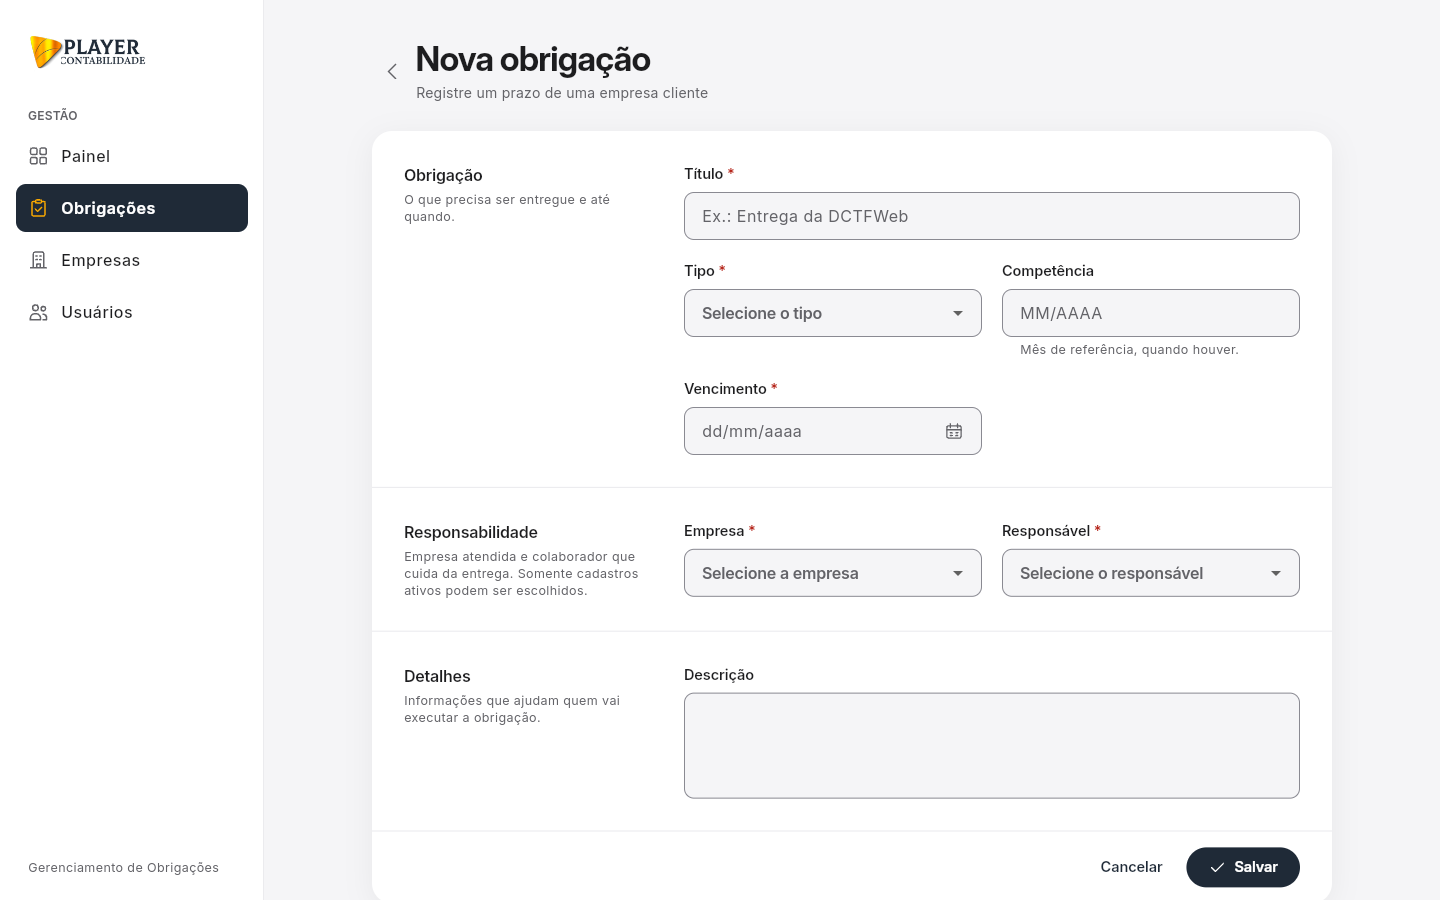
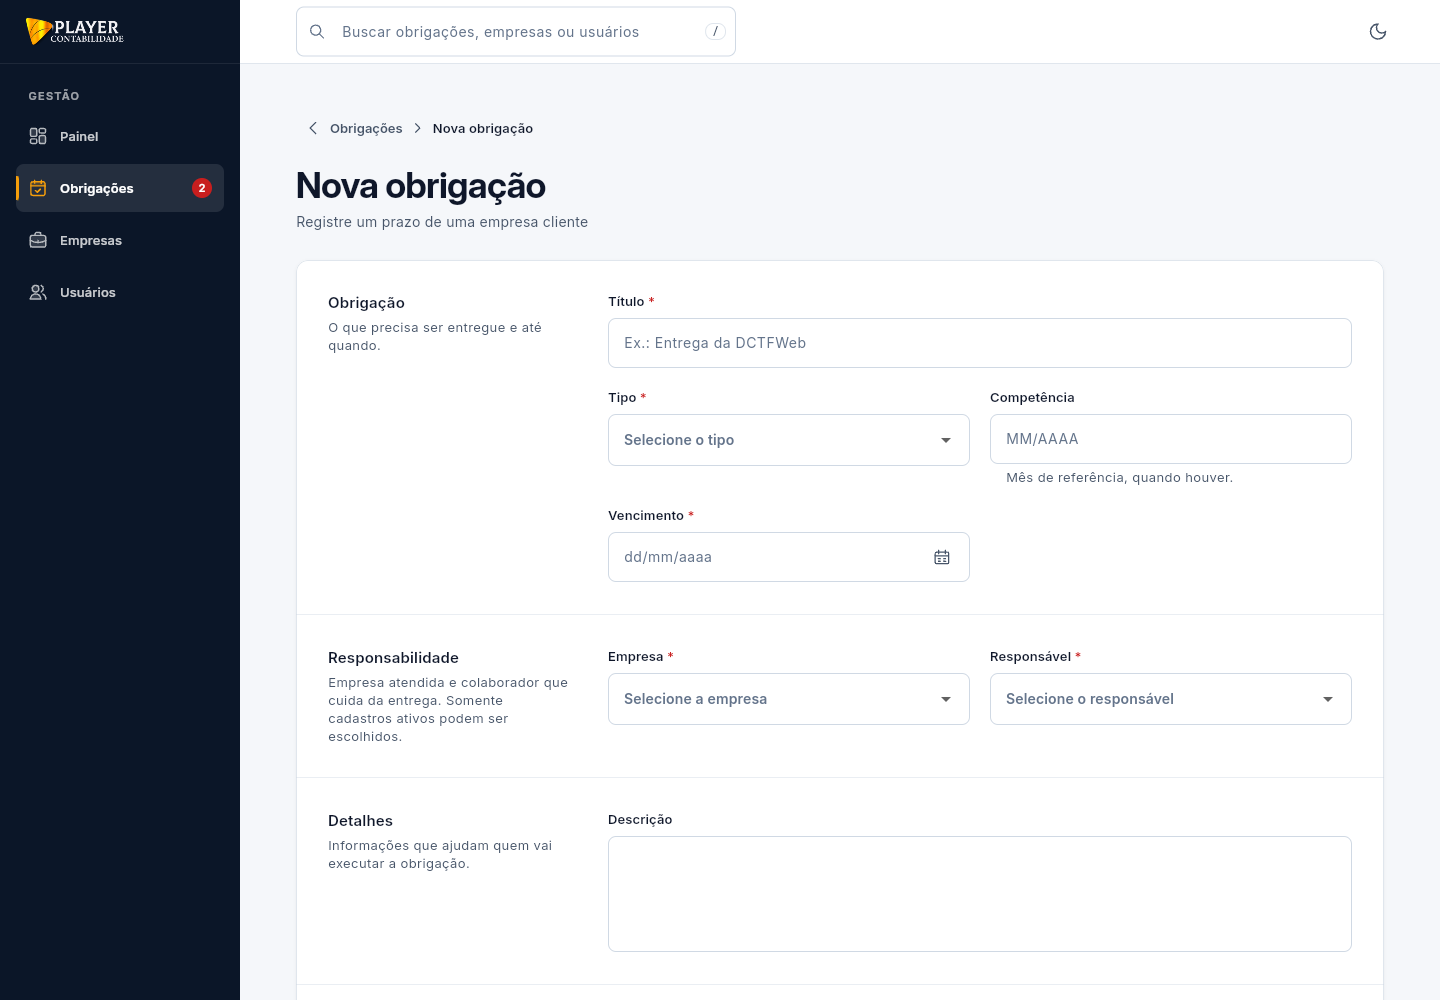
docs: README com a identidade visual e as capturas das novas telas

diff --git a/README.md b/README.md
@@ -1,61 +1,112 @@
-# Obrigações App
+<p align="center">
+  <picture>
+    <source media="(prefers-color-scheme: dark)" srcset="assets/imagens/logo-player-escuro.png">
+    <img src="assets/imagens/logo-player.png" alt="Player Contabilidade" width="225">
+  </picture>
+</p>
 
-Aplicativo Flutter (web e Android) para gerenciamento das obrigações das empresas clientes de um escritório de contabilidade.
+<h1 align="center">Gerenciamento de Obrigações · App</h1>
 
-Consome a API do repositório [obrigacoes-backend](https://github.com/rafaelsdiniz/obrigacoes-backend), onde também está a [documentação completa do sistema](https://github.com/rafaelsdiniz/obrigacoes-backend/tree/main/docs). O andamento do projeto está no [quadro do Trello](https://trello.com/b/lO3pOAnQ/sistema-de-gerenciamento-de-obrigacoes-player).
+<p align="center">
+  Aplicativo Flutter (web e Android) para o escritório acompanhar prazos, responsáveis e documentos das obrigações das empresas clientes.
+</p>
+
+<p align="center">
+  <a href="https://github.com/rafaelsdiniz/obrigacoes-frontend/actions/workflows/ci.yml"><img src="https://github.com/rafaelsdiniz/obrigacoes-frontend/actions/workflows/ci.yml/badge.svg" alt="CI"></a>
+  <img src="https://img.shields.io/badge/Flutter-3.50-02569B?logo=flutter&logoColor=white" alt="Flutter 3.50">
+  <img src="https://img.shields.io/badge/Dart-3.14-0175C2?logo=dart&logoColor=white" alt="Dart 3.14">
+  <img src="https://img.shields.io/badge/cobertura-%E2%89%A5%2080%25-047857" alt="Cobertura mínima de 80%">
+</p>
+
+<p align="center">
+  <a href="https://github.com/rafaelsdiniz/obrigacoes-backend">API (backend)</a> ·
+  <a href="https://github.com/rafaelsdiniz/obrigacoes-backend/tree/main/docs">Documentação do sistema</a> ·
+  <a href="https://trello.com/b/lO3pOAnQ/sistema-de-gerenciamento-de-obrigacoes-player">Quadro no Trello</a>
+</p>
+
+---
 
 ![Painel](docs/telas/painel.png)
 
+## Sumário
+
+- [Telas](#telas)
+- [Funcionalidades](#funcionalidades)
+- [Tecnologias](#tecnologias)
+- [Execução](#execução)
+- [Configuração do ambiente](#configuração-do-ambiente)
+- [Testes e qualidade](#testes-e-qualidade)
+- [Estrutura do projeto](#estrutura-do-projeto)
+- [Design system](#design-system)
+- [Decisões arquiteturais](#decisões-arquiteturais)
+- [Melhorias futuras](#melhorias-futuras)
+
+## Telas
+
 | Obrigações | Detalhe da obrigação |
 |---|---|
-| ![Obrigações](docs/telas/obrigacoes.png) | ![Detalhe](docs/telas/obrigacao-detalhe.png) |
+| ![Obrigações](docs/telas/obrigacoes.png) | ![Detalhe da obrigação](docs/telas/obrigacao-detalhe.png) |
 
-| Nova obrigação | Empresas |
+| Busca global | Nova obrigação |
 |---|---|
-| ![Nova obrigação](docs/telas/obrigacao-nova.png) | ![Empresas](docs/telas/empresas.png) |
+| ![Busca global](docs/telas/busca-global.png) | ![Nova obrigação](docs/telas/obrigacao-nova.png) |
+
+| Empresas | Usuários |
+|---|---|
+| ![Empresas](docs/telas/empresas.png) | ![Usuários](docs/telas/usuarios.png) |
+
+| Tema escuro | Detalhe no tema escuro |
+|---|---|
+| ![Painel no tema escuro](docs/telas/painel-escuro.png) | ![Detalhe no tema escuro](docs/telas/obrigacao-detalhe-escuro.png) |
 
 | Painel no celular | Obrigações no celular | Detalhe no celular |
 |---|---|---|
-| ![](docs/telas/painel-celular.png) | ![](docs/telas/obrigacoes-celular.png) | ![](docs/telas/obrigacao-detalhe-celular.png) |
-
-| Edição de empresa | Usuários |
-|---|---|
-| ![Edição de empresa](docs/telas/empresa-edicao.png) | ![Usuários](docs/telas/usuarios.png) |
-
-| Empresas no celular | Cadastro no celular | Tablet |
-|---|---|---|
-| ![](docs/telas/empresas-celular.png) | ![](docs/telas/empresa-nova-celular.png) | ![](docs/telas/empresas-tablet.png) |
-
-## Tecnologias
-
-- Flutter 3.50 e Dart 3.14, com o pacote `material_ui` e URLs de caminho na web
-- Identidade visual da Player: cores da marca, tipografia Inter (licença OFL, empacotada no app) e layout responsivo de tela inteira
-- Riverpod 3 para estado e injeção de dependências
-- go_router para rotas com URLs reais na web
-- Dio como cliente HTTP, inclusive para envio de arquivos (multipart)
-- file_picker para escolher anexos e url_launcher para baixá-los
-- flutter_test e mocktail para testes
+| ![Painel no celular](docs/telas/painel-celular.png) | ![Obrigações no celular](docs/telas/obrigacoes-celular.png) | ![Detalhe no celular](docs/telas/obrigacao-detalhe-celular.png) |
 
 ## Funcionalidades
 
-- **Painel:** totais de obrigações pendentes, em andamento, atrasadas e concluídas, que abrem a lista já filtrada, e os próximos vencimentos.
-- **Obrigações:** lista com busca e filtros por status e atraso; detalhe com as etapas do fluxo, histórico e anexos; cadastro e edição.
-- **Empresas e usuários:** listas com busca e filtro por situação, cadastro, edição e ativação/inativação.
-- **Anexos:** envio, lista, download e exclusão dos arquivos de cada obrigação.
+| Área | O que o usuário faz |
+|---|---|
+| **Painel** | Vê os totais por status (pendentes, em andamento, atrasadas e concluídas), que abrem a lista já filtrada, as obrigações que exigem atenção e os próximos vencimentos. |
+| **Obrigações** | Busca por título ou descrição; filtra por status (com a contagem em cada aba), somente atrasadas, empresa, responsável, tipo e período de vencimento; ordena por vencimento, cadastro ou título. |
+| **Detalhe** | Acompanha as etapas do fluxo com a data de cada uma, o histórico de mudanças e o registro (criação e atualização). Avança o status com um clique: só a próxima etapa é oferecida, e concluir pede confirmação. |
+| **Anexos** | Arrasta um ou vários arquivos para a área de envio (ou clica para escolher), baixa e exclui. O tipo e o tamanho são conferidos antes do envio. |
+| **Empresas e usuários** | Lista com busca e filtro por situação, cadastro, edição e ativação ou inativação. Inativos continuam consultáveis, mas não aparecem nos seletores de novas obrigações. |
+| **Busca global** | Encontra obrigações, empresas e usuários de qualquer tela. Atalho `/`, navegação por `↑` `↓`, `Enter` abre e `Esc` fecha. No celular, abre em tela cheia. |
+| **Tema claro e escuro** | Segue o sistema operacional até o usuário escolher pelo botão de sol e lua; a escolha fica salva no dispositivo. |
+
+## Tecnologias
+
+| Área | Escolha |
+|---|---|
+| Linguagem e framework | Flutter 3.50 e Dart 3.14, com o pacote `material_ui` e URLs de caminho na web |
+| Estado e injeção de dependências | Riverpod 3 |
+| Rotas | go_router, com URL real na web (link direto, F5 e botão voltar) |
+| HTTP | Dio, encapsulado no `ClienteApi`, inclusive para envio multipart |
+| Arquivos | file_picker para escolher, desktop_drop para arrastar e soltar, url_launcher para baixar |
+| Preferências | shared_preferences, para lembrar o tema escolhido |
+| Tipografia | Inter e Inter Display para textos e títulos, Spline Sans Mono para datas e números (licença OFL, empacotadas no app) |
+| Testes | flutter_test e mocktail |
+| Entrega | Docker (build multi-stage com nginx sem privilégios) e GitHub Actions publicando no GHCR |
 
 ## Execução
 
-### Com Docker (sistema completo)
+### Sistema completo com Docker
 
-O jeito mais simples é subir tudo pelo Compose do [backend](https://github.com/rafaelsdiniz/obrigacoes-backend):
+O jeito mais simples é subir tudo pelo Compose do [backend](https://github.com/rafaelsdiniz/obrigacoes-backend), que inclui o banco, a API e este aplicativo:
 
 ```bash
+git clone https://github.com/rafaelsdiniz/obrigacoes-backend.git
+cd obrigacoes-backend
 docker compose up -d --build
 ```
 
-O aplicativo fica em http://localhost:3000 e a API em http://localhost:8080.
+| Serviço | Endereço |
+|---|---|
+| Aplicativo | http://localhost:3000 |
+| API | http://localhost:8080 |
 
-Para rodar só a imagem deste repositório:
+Para rodar só a imagem deste repositório, com a API já em execução:
 
 ```bash
 docker build -t obrigacoes-app .
@@ -72,98 +123,107 @@ flutter run -d chrome      # web
 flutter run                # Android, com o emulador aberto (a API é acessada por 10.0.2.2)
 ```
 
-A URL da API padrão é `http://localhost:8080`. Para usar outra:
+## Configuração do ambiente
 
-```bash
-flutter run -d chrome --dart-define=API_URL=http://192.168.0.10:8080
-```
+A URL da API vem de um destes lugares, nesta ordem:
 
-### Configuração em tempo de execução
-
-Na web, o aplicativo lê o arquivo `/config.json` da raiz do site antes de iniciar:
-
-```json
-{ "apiUrl": "https://api.exemplo.com.br" }
-```
-
-Se o arquivo não existir, vale o `API_URL` definido no build. Assim, a mesma build serve qualquer ambiente. Fora da web, sem `API_URL`, o padrão é `http://localhost:8080`, ou `http://10.0.2.2:8080` no emulador Android.
-
-No Android, HTTP sem TLS só é permitido para `10.0.2.2` e `localhost` (`android/app/src/main/res/xml/network_security_config.xml`). Em um aparelho físico, use a API por HTTPS ou inclua o endereço da máquina nesse arquivo antes de gerar o app.
+1. **`/config.json` na raiz do site (web).** O contêiner gera esse arquivo na subida a partir da variável `API_URL`, então a mesma imagem serve qualquer ambiente:
+   ```json
+   { "apiUrl": "https://api.exemplo.com.br" }
+   ```
+2. **`--dart-define=API_URL=...` no build ou no `flutter run`.**
+3. **Padrão:** `http://localhost:8080`, ou `http://10.0.2.2:8080` no emulador Android.
 
 | Onde | Variável | Padrão | Descrição |
 |---|---|---|---|
-| Contêiner (nginx) | `API_URL` | `http://localhost:8080` | Endereço da API como o navegador o enxerga; vira o `/config.json` na subida do contêiner |
+| Contêiner (nginx) | `API_URL` | `http://localhost:8080` | Endereço da API como o navegador o enxerga; vira o `/config.json` |
 | Build (`--dart-define`) | `API_URL` | `http://localhost:8080` ou `http://10.0.2.2:8080` no Android | Usado quando não há `/config.json` (desenvolvimento e Android) |
 
-A imagem usa nginx sem privilégios, com fallback para a SPA (as URLs funcionam com F5 e link direto), gzip, cabeçalhos de segurança e health check.
+No Android, HTTP sem TLS só é permitido para `10.0.2.2` e `localhost` (`android/app/src/main/res/xml/network_security_config.xml`). Em um aparelho físico, use a API por HTTPS ou inclua o endereço da máquina nesse arquivo antes de gerar o app.
+
+A imagem usa nginx sem privilégios, com fallback para a SPA, gzip, cabeçalhos de segurança, `Cache-Control: no-cache` (cada deploy chega ao navegador no próximo acesso) e health check.
 
 ## Testes e qualidade
 
 ```bash
-flutter analyze
 dart format --set-exit-if-changed lib test
+flutter analyze
 flutter test --coverage
 ```
 
-- Testes de unidade (formatação, regras de prazo, repositórios com um adaptador HTTP falso) e de tela, que sobem o aplicativo inteiro com os repositórios substituídos por falsos e navegam pelas rotas reais.
-- Testes de layout e acessibilidade: todas as rotas em 4 tamanhos de tela com texto em dobro, contraste WCAG AA, alvos de toque de 48 px e rótulos para leitor de tela.
-- O CI roda formatação, análise, testes com cobertura mínima de 80% e o build web em todo pull request; na `main`, publica a imagem no GHCR.
+| Tipo | O que cobre |
+|---|---|
+| Unidade | Formatação (CNPJ, datas, competência, tamanhos), regras de prazo, filtros e períodos de vencimento, preferência de tema |
+| Repositórios | Parâmetros e corpo enviados à API e leitura das respostas, com um adaptador HTTP falso |
+| Contrato | Os repositórios contra um servidor que responde exatamente como a API documentada |
+| Telas | O aplicativo inteiro sobe com os repositórios substituídos por falsos e navega pelas rotas reais: painel, listas, filtros e ordenação, detalhe e avanço de status, formulários, anexos (seletor e arrastar e soltar), busca global e troca de tema |
+| Layout e acessibilidade | Todas as rotas em 4 tamanhos de tela com texto em dobro e sem estouro; contraste WCAG AA nos temas claro e escuro, alvos de toque de 48 px e rótulos para leitor de tela |
 
-## Estrutura
+O CI roda formatação, análise, testes com cobertura mínima de 80% e o build web em todo pull request; na `main`, publica a imagem no GHCR.
+
+## Estrutura do projeto
 
 ```text
 lib/
-├── main.dart                 carrega a configuração e inicia o app
-├── app/                      MaterialApp, roteador e navegação (barra lateral ou barra inferior)
+├── main.dart                 carrega a configuração e o tema salvo e inicia o app
+├── app/                      MaterialApp, roteador e navegação (barra lateral, barra superior e barra inferior)
 ├── core/
-│   ├── tema/                 cores, raios e tema da identidade visual
-│   ├── layout/               pontos de quebra e margens responsivas
+│   ├── tema/                 paleta clara e escura, tokens de raio, fonte e movimento, preferência de tema
+│   ├── layout/               pontos de quebra, largura da página, altura dos controles e margens
 │   ├── config/               URL da API (/config.json ou --dart-define)
 │   ├── dominio/              Json, situação, filtro e termos dos cadastros
-│   ├── estado/               notifiers reaproveitáveis
-│   ├── arquivos/             escolha de arquivos no dispositivo e download
+│   ├── estado/               filtro reaproveitável dos cadastros e aviso de alteração entre telas
+│   ├── arquivos/             escolha, arrastar e soltar e download de arquivos
 │   ├── formatacao/           CNPJ, datas, competência, tamanhos de arquivo e validações
 │   ├── http/                 cliente da API, erros (Problem Details), página e parâmetros
-│   └── widgets/              componentes da interface: cabeçalho, grupo, linhas, selos, filtros, formulários
+│   └── widgets/              componentes: cabeçalhos, trilha, cartões, filtros, menus, listas e formulários
 └── features/
-    ├── painel/               indicadores e próximos vencimentos
-    ├── obrigacoes/           lista, detalhe com andamento e histórico, formulário, regras de prazo
-    ├── anexos/               envio, lista, download e exclusão dos arquivos de uma obrigação
-    ├── empresas/             data (repositório), domain (modelo) e presentation (telas, estado e rotas)
+    ├── painel/               indicadores e seções do painel
+    ├── obrigacoes/           lista com filtros, detalhe com etapas e histórico, formulário e regra de prazo
+    ├── anexos/               área de envio, lista, download e exclusão
+    ├── busca/                busca global em obrigações, empresas e usuários
+    ├── empresas/
     └── usuarios/
 ```
 
-Cada funcionalidade é dividida em três camadas:
-- `data`: fala com a API;
-- `domain`: modelos imutáveis;
-- `presentation`: telas e estado.
+As funcionalidades que falam com a API (obrigações, anexos, empresas e usuários) são divididas em três camadas. O painel e a busca global só compõem dados dessas funcionalidades, então têm apenas `presentation` (e o modelo do resultado, no caso da busca):
 
-### Anexos
+| Camada | Responsabilidade |
+|---|---|
+| `data` | Repositórios que falam com a API e convertem JSON em modelo |
+| `domain` | Modelos imutáveis e regras de exibição (prazo, filtros, períodos) |
+| `presentation` | Telas, providers e as operações que alteram dados |
 
-Na tela da obrigação, a seção **Anexos** envia um arquivo por vez, lista os enviados e permite baixar ou excluir.
-- O seletor só oferece as extensões aceitas pela API: PDF, PNG, JPEG, XML, CSV, XLSX e DOCX.
-- Arquivos acima de 10 MB são recusados antes do envio, para não carregar na memória algo que a API vai recusar. O valor fica em `Anexo.tamanhoMaximo` e acompanha o padrão do backend (`APP_ANEXOS_TAMANHO_MAXIMO`); a API continua sendo quem decide, conferindo o tipo pelo conteúdo e o tamanho.
-- O download abre o endereço do anexo em uma nova aba. A API responde com `Content-Disposition: attachment` e o nome original, então o navegador salva o arquivo e fecha a aba; se a API responder com erro, ele aparece na aba nova, sem perder o estado do app. No Android, o endereço abre no navegador.
-- Obrigação concluída continua aceitando anexos (por exemplo, o recibo da entrega), mas não permite excluí-los.
+## Design system
 
-Os erros da API chegam às telas como `ErroApi`, com o código estável e os erros por campo, que aparecem no próprio campo do formulário.
+A interface usa um conjunto pequeno de tokens, para que todas as telas tenham o mesmo tamanho, forma e cor:
+
+| Token | Valores | Onde |
+|---|---|---|
+| Paleta (`Paleta`) | Neutros azul-acinzentados, marinho da marca, amarelo da logo como acento e status em uma mesma intensidade (azul, verde, vermelho e amarelo) | `context.cores`, com versão clara e escura |
+| Raios (`Raios`) | 8 para controles, 12 para cartões, pílula para status e contadores | Botões, campos, filtros, cartões, faixas |
+| Altura (`Medidas.alturaDoControle`) | 48 px em todo controle interativo | Busca, abas, filtros, botões |
+| Ícones (`TamanhosDeIcone`) | 14, 18, 20 e 32 | Status, botões, navegação e estados vazios |
+| Largura (`Medidas.larguraMaximaDaPagina`) | 1600 px, com a barra superior alinhada ao conteúdo | Todas as páginas |
+
+As cores de status têm significado fixo e sempre vêm acompanhadas de ícone e texto, nunca só da cor.
 
 ## Decisões arquiteturais
 
-As decisões do sistema estão registradas nos [ADRs do backend](https://github.com/rafaelsdiniz/obrigacoes-backend/tree/main/docs/adr) (a do frontend é a [ADR-0008](https://github.com/rafaelsdiniz/obrigacoes-backend/blob/main/docs/adr/0008-arquitetura-do-frontend.md)). Em resumo:
+As decisões do sistema estão registradas nos [ADRs do backend](https://github.com/rafaelsdiniz/obrigacoes-backend/tree/main/docs/adr); a do frontend é a [ADR-0008](https://github.com/rafaelsdiniz/obrigacoes-backend/blob/main/docs/adr/0008-arquitetura-do-frontend.md). Em resumo:
 
 - **Organização por funcionalidade** (`features/<nome>/{data,domain,presentation}`): cada assunto fica junto, e as telas nunca falam com HTTP diretamente.
 - **Riverpod para estado:** cada fonte de dados é um provider com estados de carregando, erro e dados. As operações que alteram dados ficam em uma classe por funcionalidade (`CadastroDeObrigacoes`, `GestaoDeAnexos`), que invalida o que precisa ser recarregado.
 - **Erros tratados em um único ponto:** o `ClienteApi` converte qualquer falha em `ErroApi`, com o código estável do Problem Details. Erros de validação aparecem no próprio campo; conflito de versão oferece "Recarregar".
-- **O backend é a fonte das regras.** O app só as reflete para dar uma experiência melhor: mostra apenas a próxima ação de status, lista só cadastros ativos nos seletores e usa o campo `atrasada` calculado pela API, no fuso do escritório.
+- **O backend é a fonte das regras.** O app só as reflete para dar uma experiência melhor: oferece apenas a próxima ação de status, lista só cadastros ativos nos seletores e usa o campo `atrasada` calculado pela API, no fuso do escritório. Os filtros, a ordenação e as contagens das abas vêm da própria API.
 - **Configuração em tempo de execução** (`/config.json`): a mesma imagem serve qualquer ambiente.
-- **Uma base para web e Android:** barra lateral e tabelas em telas largas; barra inferior e linhas empilhadas no celular.
-- **Identidade visual da Player:** dourado da marca como acento e grafite como base; cores de status com significado fixo e sempre acompanhadas de ícone e texto.
+- **Uma base para web e Android:** barra lateral e tabelas em telas largas; barra inferior, linhas empilhadas e busca em tela cheia no celular.
+- **Acessibilidade verificada por teste:** contraste nos dois temas, alvos de toque, texto em dobro e rótulos para leitor de tela fazem parte da suíte, não de uma revisão manual.
 
 ## Melhorias futuras
 
 - Login e perfis de acesso, acompanhando a autenticação da API.
 - Busca dentro dos seletores de empresa e responsável (hoje até 100 cadastros ativos por lista).
 - Progresso em porcentagem no envio de anexos e pré-visualização de PDFs e imagens.
-- Filtros por empresa, responsável e período na lista de obrigações (a API já os oferece).
-- Modo escuro e testes de ponta a ponta automatizados (integration_test) no CI.
+- Notificações de vencimento no aplicativo.
+- Testes de ponta a ponta automatizados (`integration_test`) contra a API real no CI.
